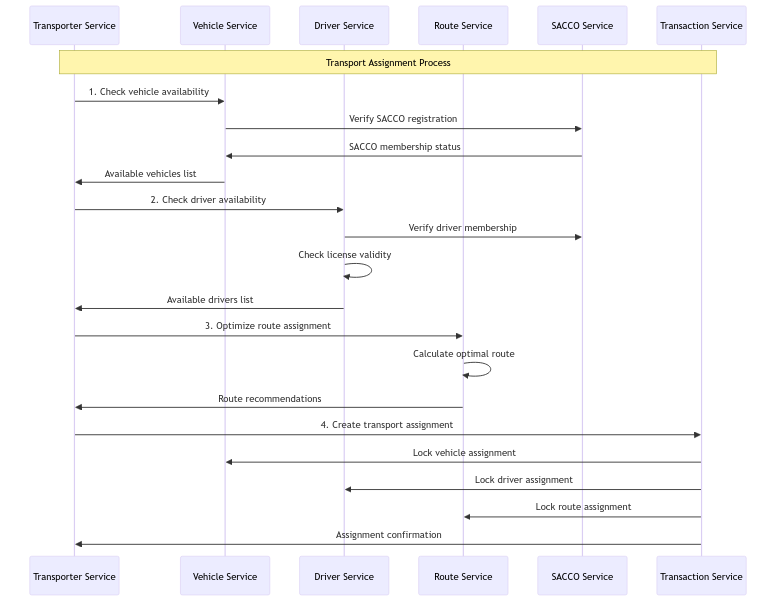
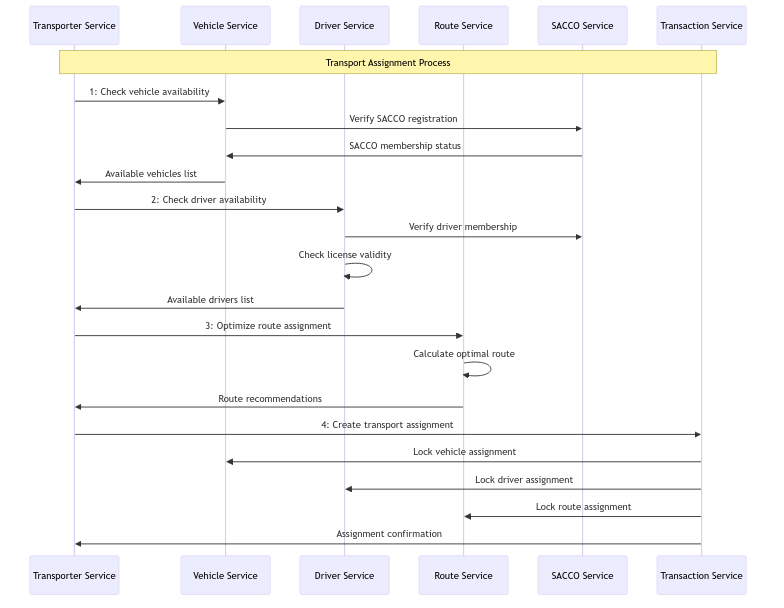
fix(c4): replace numbered periods with colons in Mermaid diagrams to prevent markdown list errors
- Change all numbered labels from '1.' to '1:' format in Mermaid diagrams
- Update complete-weighing-transaction-flow.mmd with colon format
- Update vehicle-driver-assignment-flow.mmd with colon format
- Update customer-order-processing-flow.mmd with colon format
- Update embedded diagrams in 03-component-flows.md markdown file
- Regenerate PNG assets with corrected numbering format
- Eliminates 'Unsupported markdown: list' errors in Mermaid rendering

🤖 Generated with [Claude Code](https://claude.ai/code)

diff --git a/docs/c4/03-component-flows.md b/docs/c4/03-component-flows.md
@@ -143,24 +143,24 @@ sequenceDiagram
 
     Note over Customer,Events: End-to-End Order Processing
 
-    Customer->>Product: 1. Validate ProductId
+    Customer->>Product: 1: Validate ProductId
     Product->>Product: Check product catalog
     Product->>Customer: Product details & pricing
     
-    Customer->>Supplier: 2. Check supplier availability
+    Customer->>Supplier: 2: Check supplier availability
     Supplier->>Supplier: Verify supplier capacity
     Supplier->>Customer: Supplier confirmation
     
-    Customer->>Transaction: 3. Create order transaction
+    Customer->>Transaction: 3: Create order transaction
     Transaction->>Transaction: Generate transaction ID
     Transaction->>Events: Publish OrderCreated event
     
-    Events->>Compliance: 4. Compliance validation
+    Events->>Compliance: 4: Compliance validation
     Compliance->>Product: Check product regulations
     Compliance->>Supplier: Check supplier licenses
     Compliance->>Events: Publish ComplianceValidated event
     
-    Events->>Customer: 5. Order confirmation
+    Events->>Customer: 5: Order confirmation
     Customer->>Customer: Update order status
 ```
 
@@ -177,21 +177,21 @@ sequenceDiagram
 
     Note over Transporter,Transaction: Transport Assignment Process
 
-    Transporter->>Vehicle: 1. Check vehicle availability
+    Transporter->>Vehicle: 1: Check vehicle availability
     Vehicle->>SACCO: Verify SACCO registration
     SACCO->>Vehicle: SACCO membership status
     Vehicle->>Transporter: Available vehicles list
     
-    Transporter->>Driver: 2. Check driver availability
+    Transporter->>Driver: 2: Check driver availability
     Driver->>SACCO: Verify driver membership
     Driver->>Driver: Check license validity
     Driver->>Transporter: Available drivers list
     
-    Transporter->>Route: 3. Optimize route assignment
+    Transporter->>Route: 3: Optimize route assignment
     Route->>Route: Calculate optimal route
     Route->>Transporter: Route recommendations
     
-    Transporter->>Transaction: 4. Create transport assignment
+    Transporter->>Transaction: 4: Create transport assignment
     Transaction->>Vehicle: Lock vehicle assignment
     Transaction->>Driver: Lock driver assignment
     Transaction->>Route: Lock route assignment
